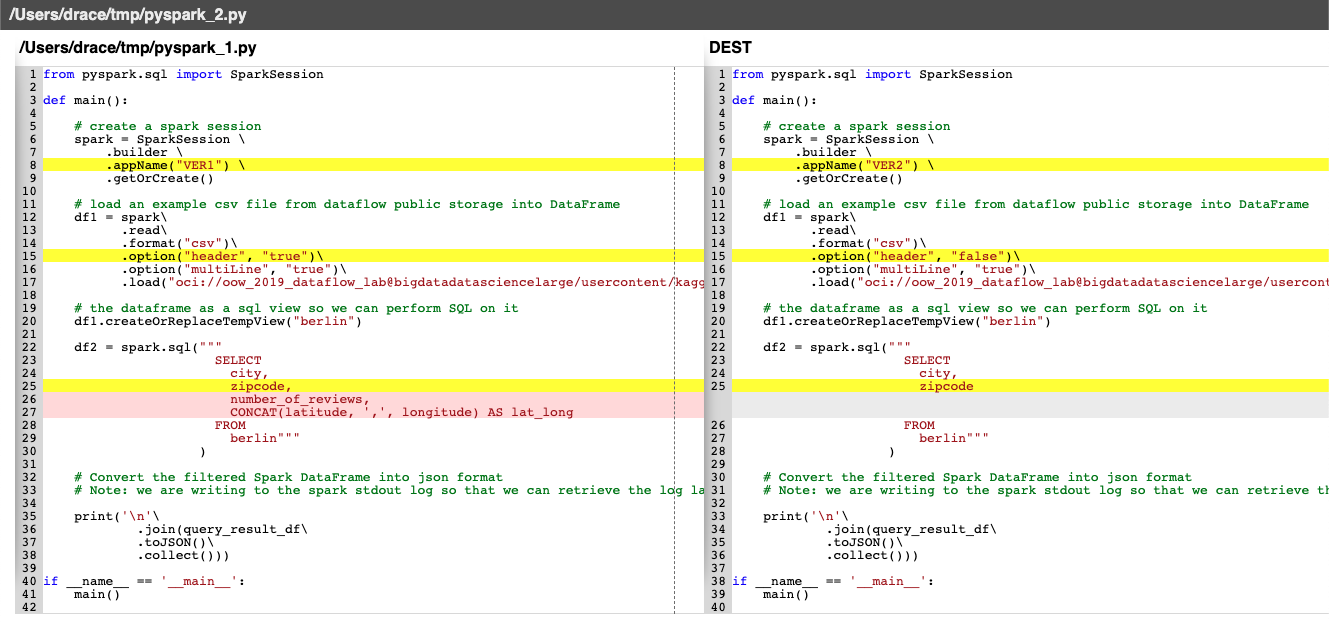
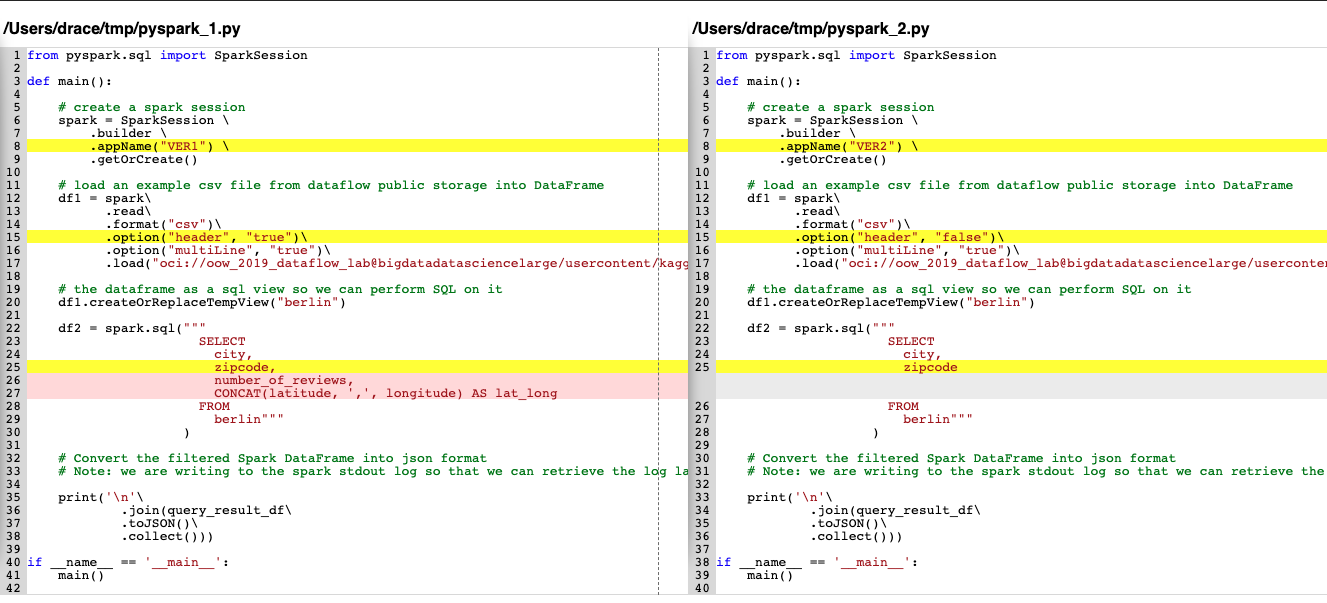
update screenshot and remove margin

diff --git a/src/assets/codeformats/monokai.css b/src/assets/codeformats/monokai.css
@@ -65,10 +65,7 @@ body .il { color: #ae81ff } /* Literal.Number.Integer.Long */
 
 /* Override the surrounding theme to match a dark theme*/
 
-#topbar {
-	 background: #272822; 
-	 color: #f8f8f2
-}
+
 td.linenos {
   background: #272822;
   padding: 0 5px 0 5px;
@@ -84,9 +81,9 @@ div.codebox table {
   border-bottom: 0px solid #272822;
 }
 
-/* 
+/*
 These styles are used to highlight each diff line.
-Note: for partial like highlight change to "display:block-inline" 
+Note: for partial like highlight change to "display:block-inline"
 */
 span.left_diff_change {
   background-color: #FFCF74;

diff --git a/src/assets/diff.css b/src/assets/diff.css
@@ -47,18 +47,6 @@ These styles are used to modify the containing area is placed/displayed.
   border-right: 1px dashed #777;
 }
 
-#topbar {
-  font-family: Helvetica, sans-serif;
-  background-color: #555;
-  border-bottom: 0px solid #999;
-  padding: 0;
-  position: fixed;
-  top: 0;
-  height: 30px;
-  width: 100%;
-  z-index: 100;
-}
-
 #filetitle {
   display: inline-block;
   font-weight: bold;
@@ -171,7 +159,7 @@ input.toggle-yes-no:checked+label:after {
 /*end Toggle buttons*/
 div#maincontainer {
   overflow-x: auto;
-  margin: 20px 0 0 15px;
+  margin: 0px;
 }
 
 .page-80-width {

diff --git a/src/html_diff.py b/src/html_diff.py
@@ -31,11 +31,6 @@ HTML_TEMPLATE = """
 </head>
 
 <body>
-  <div class="" id="topbar">
-    <div id="filetitle">
-      %(page_title)s
-    </div>
-  </div>
   <div id="maincontainer" class="%(page_width)s">
     <div id="leftcode" class="left-inner-shadow codebox divider-outside-bottom">
       <div class="codefiletab">
